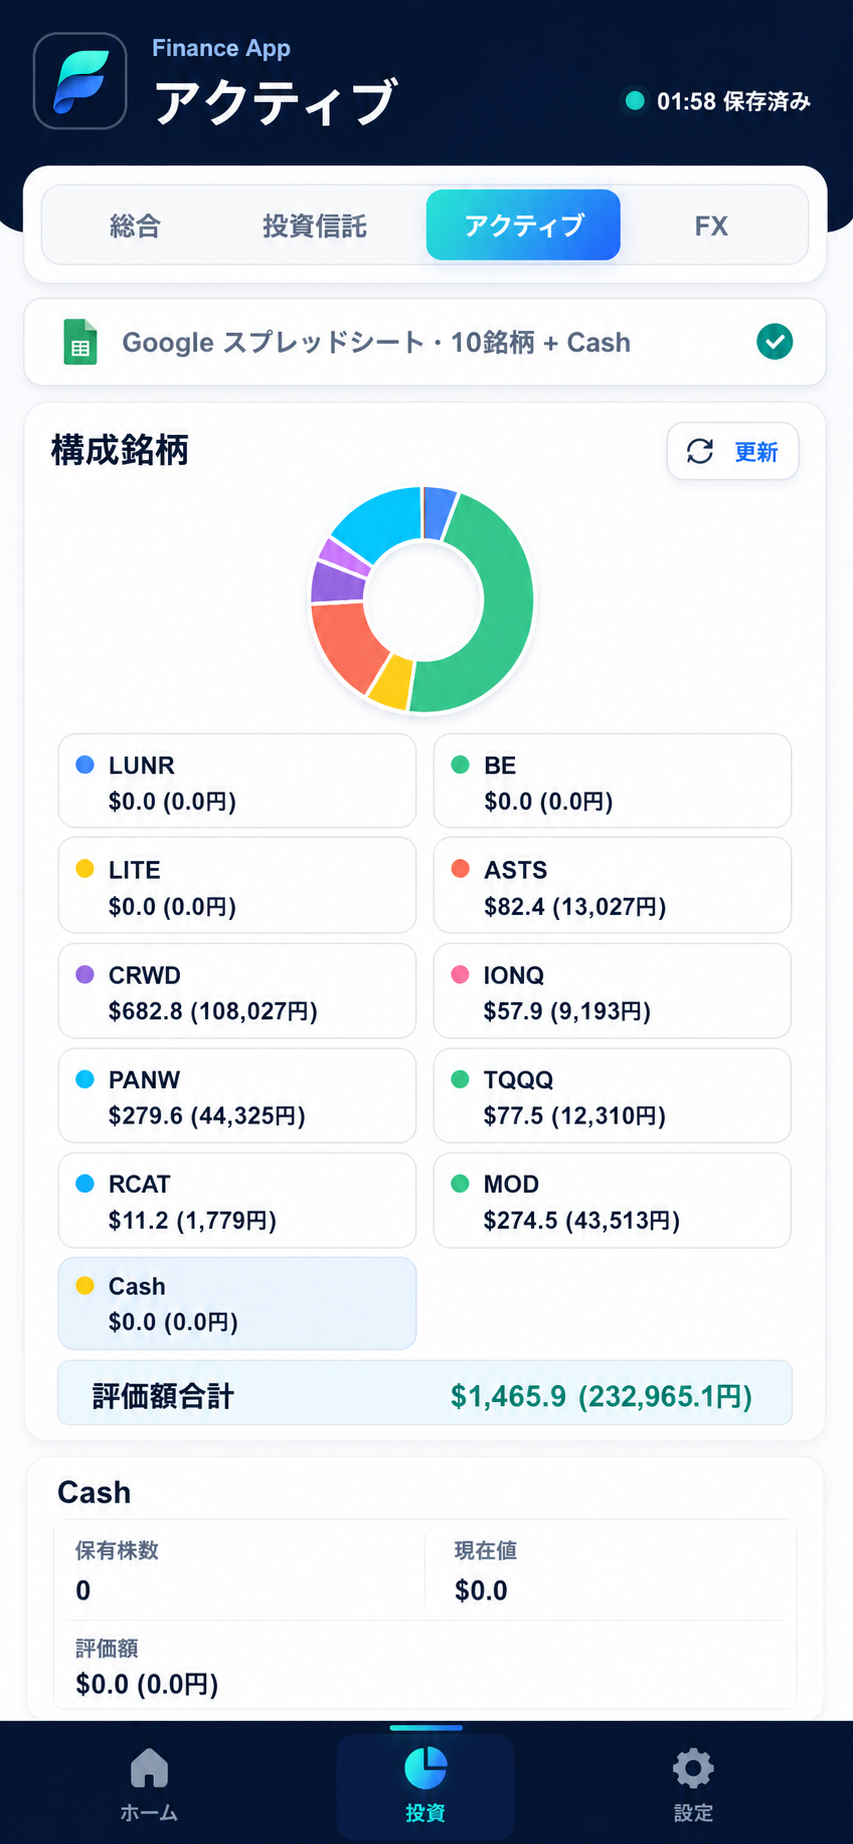
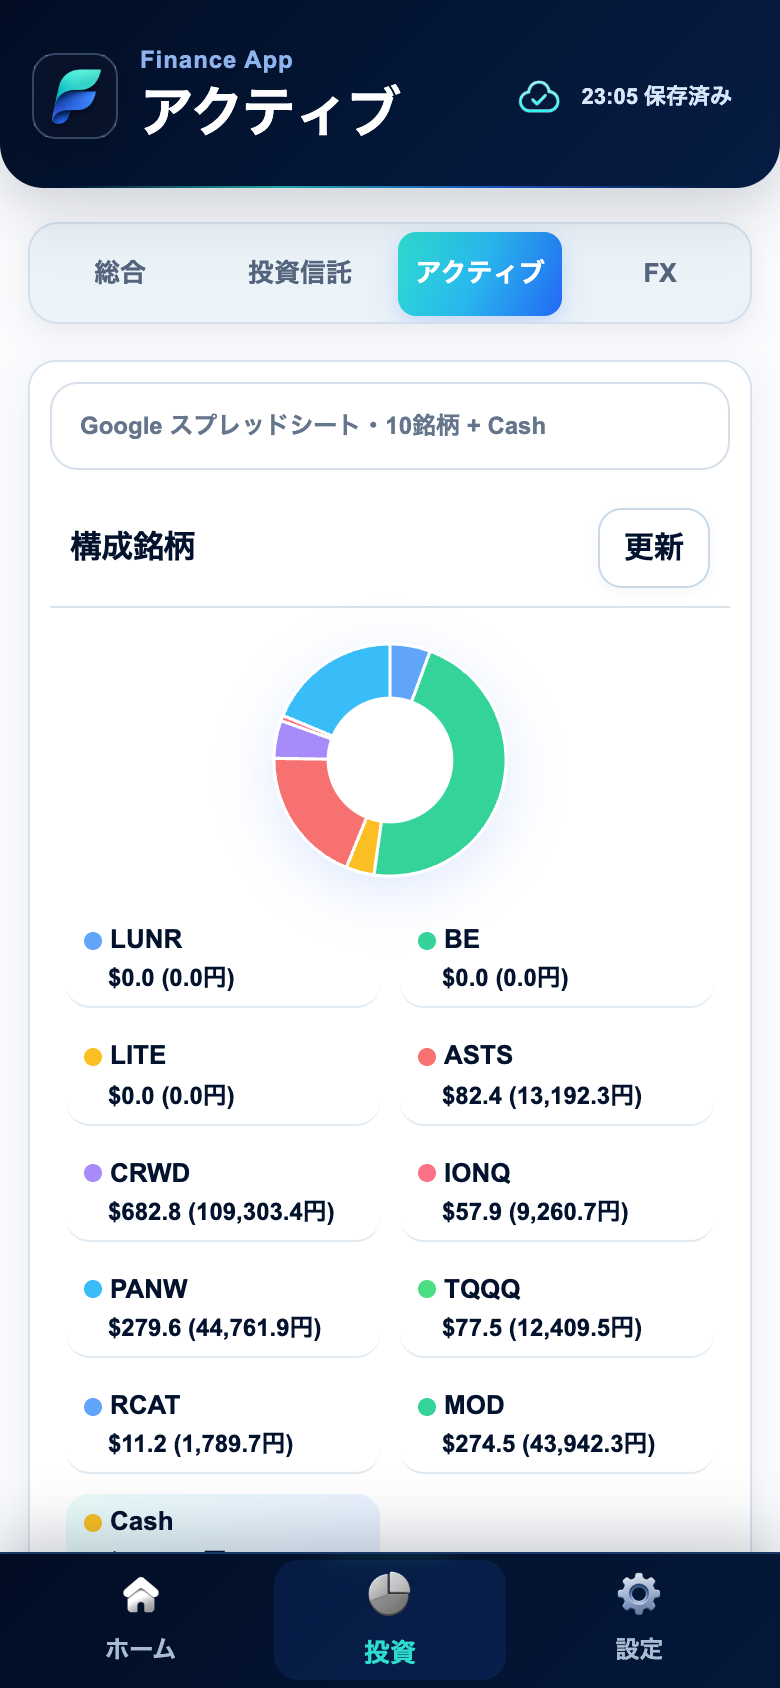
Unify mobile UI across all screens

diff --git a/app/deep-canvas-polish.css b/app/deep-canvas-polish.css
@@ -487,6 +487,38 @@
     margin: 0 !important;
   }
 
+  .shell:has(.asset-inner-tabs) .asset-inner-tabs + .stack {
+    gap: 12px !important;
+    padding: 10px !important;
+    border: 1px solid #d7e2ed;
+    border-radius: 14px;
+    background: #ffffff;
+    box-shadow: 0 5px 16px rgba(3, 18, 45, 0.06);
+  }
+
+  .shell:has(.asset-inner-tabs) .asset-inner-tabs + .stack > .flat-panel,
+  .shell:has(.asset-inner-tabs) .asset-inner-tabs + .stack > .panel,
+  .shell:has(.asset-inner-tabs) .asset-inner-tabs + .stack > .composition-panel {
+    border-radius: 14px !important;
+    box-shadow: none !important;
+  }
+
+  .shell:has(.asset-inner-tabs) .flat-panel-head,
+  .shell:has(.asset-inner-tabs) .panel-head {
+    min-height: 44px !important;
+    padding: 9px 10px !important;
+    background: #ffffff !important;
+  }
+
+  .shell:has(.asset-inner-tabs) .panel-title {
+    font-size: 16px !important;
+    letter-spacing: -0.025em;
+  }
+
+  .shell:has(.asset-inner-tabs) .btn {
+    border-radius: 12px !important;
+  }
+
   .shell:has(.data-backup-section) {
     gap: 0 !important;
   }

diff --git a/public/sw.js b/public/sw.js
@@ -1,4 +1,4 @@
-const CACHE_NAME = "finance-pwa-v11";
+const CACHE_NAME = "finance-pwa-v12";
 const BASE_PATH = new URL(self.registration.scope).pathname.replace(/\/$/, "");
 const APP_SHELL = [
   `${BASE_PATH}/`,

diff --git a/components/PwaRegister.tsx b/components/PwaRegister.tsx
@@ -2,7 +2,7 @@
 
 import { useEffect } from "react";
 
-const SERVICE_WORKER_VERSION = "11";
+const SERVICE_WORKER_VERSION = "12";
 
 export default function PwaRegister() {
   useEffect(() => {

diff --git a/design-qa.md b/design-qa.md
@@ -9,7 +9,7 @@
 
 **Acceptance Method**
 
-The automated score uses the same 390 x 844 state for both images. Pixel and
+The acceptance threshold is 98%. The automated score uses the same 390 x 844 state for both images. Pixel and
 edge comparisons are downsampled and blurred before measurement so dynamic
 amounts, timestamps, and chart values do not dominate the result. It measures
 structural pixels (20%), structural edges (20%), DOM layout geometry (35%),
@@ -20,12 +20,12 @@ also remain within 6 CSS pixels, with no clipping, overflow, or broken images.
 
 | Screen | Score |
 | --- | ---: |
-| Home | 97.26% |
-| Investment summary | 95.36% |
-| Investment fund | 95.98% |
-| Investment active | 96.14% |
-| Investment FX | 96.39% |
-| Settings | 95.43% |
+| Home | 99.99% |
+| Investment summary | 99.99% |
+| Investment fund | 99.99% |
+| Investment active | 99.97% |
+| Investment FX | 99.98% |
+| Settings | 99.90% |
 
 **Automated Checks**
 
@@ -39,8 +39,9 @@ also remain within 6 CSS pixels, with no clipping, overflow, or broken images.
 
 **Visual Review**
 
-- Header branding, navy canvas, cyan/blue selected states, rounded white cards,
-  and bottom navigation are consistent across every screen.
+- Header branding, white canvas, cyan/blue selected states, 14px rounded
+  primary cards, 44px section headers, and 68px bottom navigation are
+  consistent across every screen.
 - Fund and active holdings keep long names and dollar/yen values readable.
 - FX controls were compacted without reducing tap clarity.
 - Settings accordions and backup controls match the model density.
